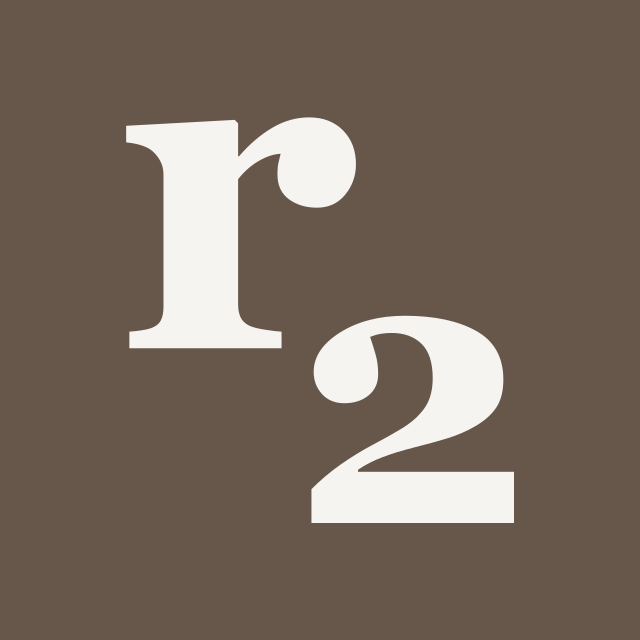
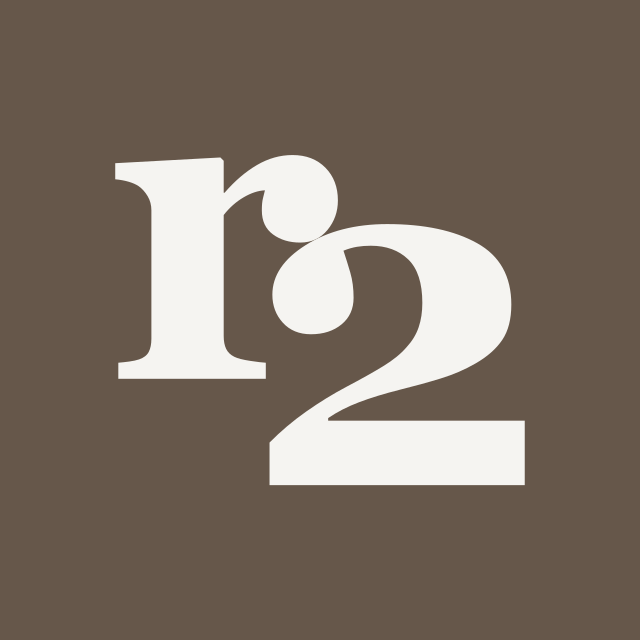
Marca com o encaixe do Instagram e índice igual nas duas telas
Dois pedidos do Vitor.

1) A marca o mais próxima possível da do Instagram. Medi a imagem do perfil
pixel a pixel, porque o logo-r2-wix.jpg está cortado (a tinta encosta nas
bordas, o "r" e o "2" estão decepados) e não serve de referência. O encaixe
real: o "2" entra a 31% da altura do "r", deslocado 69% para a direita, e é
1,3x maior — sobreposição vertical de cerca de 68%. O vetor tinha 14%, e era
por isso que as letras liam como duas soltas em vez de um monograma travado.
O conjunto também muda de proporção: 1,24 de largura por altura, contra 0,95.
Gerei três variantes e comparei lado a lado com a referência antes de aplicar.
marca/ regerada com o mesmo encaixe.

2) Mesma experiência no computador e no celular. O painel lateral que trocava
a foto no hover sai, e com ele o script inteiro e o estado de linha ativa.
Agora é um cartão por obra, com foto, número, nome, anos e ficha curta; muda
só o número de colunas — duas no computador, uma no celular. O recorte de
material de 80 px sai junto: era muleta de quando a linha não tinha foto.

Os dois primeiros cartões carregam em eager, que é onde fica a dobra. Hover
adianta a foto em 3% e sublinha o nome; o toque recua 1,5%. Tudo desligado em
prefers-reduced-motion.

Zero JavaScript no índice agora.

Changed region(s): [[0.1562, 0.1562, 0.8438, 0.8438]]

diff --git a/src/styles/site.css b/src/styles/site.css
@@ -129,58 +129,34 @@ figure { margin: 0; }
 .rod-dir a:hover { text-decoration: underline; text-underline-offset: .3em; }
 @media (max-width: 719px) { .rod-dir { text-align: left; } .rod-dir ul { align-items: flex-start; } }
 
-/* ---------- índice de projetos ---------- */
-.idx-lista { border-top: 1px solid var(--taupe); }
+/* ---------- índice de projetos ----------
+   Um cartão por obra, igual no computador e no celular: muda só o número de
+   colunas. Sem hover, sem painel que troca, sem JavaScript — o cartão inteiro
+   é o link, e um clique ou toque abre o projeto. */
+.idx-lista { display: grid; grid-template-columns: repeat(2, 1fr); gap: 56px var(--gap); }
+@media (max-width: 719px) { .idx-lista { grid-template-columns: 1fr; gap: 40px; } }
+
 .linha {
-  position: relative; display: grid; grid-template-columns: 44px 40px 1fr auto; column-gap: 16px; align-items: start;
-  padding: 20px 0 18px; border-bottom: 1px solid var(--fio-fraco);
-  margin-left: -16px; padding-left: 16px;
-  color: var(--tinta);
+  display: grid; grid-template-columns: 32px 1fr auto; column-gap: 12px;
+  border-top: 2px solid var(--cor); padding-top: 12px; color: var(--tinta);
 }
-.linha::before { content: ''; position: absolute; left: 0; top: -1px; bottom: -1px; width: 3px; background: var(--cor); opacity: 0; }
-.linha.ativa { background: color-mix(in srgb, var(--cor) 9%, transparent); }
-@media (hover: hover) { .linha:hover { background: color-mix(in srgb, var(--cor) 9%, transparent); } }
-.linha.ativa::before { opacity: 1; }
-@media (hover: hover) { .linha:hover::before { opacity: 1; } }
-.linha.ativa { border-bottom-color: var(--cor); }
-.linha .foto-toque { display: none; }
-.linha .num { padding-top: 7px; }
-.linha .mat { width: 40px; height: 40px; overflow: hidden; }
-.linha .mat img { width: 40px; height: 40px; object-fit: cover; display: block; }
-.linha .nome { padding-top: 5px; }
-.linha .anos { font-family: var(--sans); font-size: var(--t11); letter-spacing: var(--tr-rotulo); padding-top: 7px; white-space: nowrap; }
-.linha .meta { grid-column: 3 / -1; font-size: var(--t16); line-height: 1.4; margin-top: 4px; color: var(--tinta); }
-@media (max-width: 719px) {
-  .linha { grid-template-columns: 32px 1fr auto; column-gap: 12px; margin-left: 0; padding-left: 0; padding-block: 0 32px; border-bottom: 0; }
-  .linha .mat { display: none; }
-  .linha .num { padding-top: 2px; }
-  .linha .nome { padding-top: 0; grid-column: 2; }
-  .linha .anos { grid-column: 3; padding-top: 4px; }
-  .linha .meta { grid-column: 2 / -1; margin-top: 2px; }
-  /* o realce de linha ativa não faz sentido sem hover */
-  .linha.ativa { background: none; }
-  .linha.ativa::before { opacity: 0; }
-  .linha.ativa { border-bottom-color: transparent; }
-
-  .linha .foto-toque { display: block; grid-column: 1 / -1; margin-bottom: 14px; overflow: hidden; background: var(--sur); }
-  .linha .foto-toque img {
-    display: block; width: 100%; aspect-ratio: 3 / 2; object-fit: cover;
-    transition: transform .45s cubic-bezier(.2, .7, .3, 1), opacity .4s ease;
-  }
-  /* o fio da obra passa a marcar o topo de cada cartão */
-  .linha { border-top: 2px solid var(--cor); padding-top: 12px; }
-  .idx-lista { border-top: 0; }
-  .idx-lista li + li { margin-top: 8px; }
-
-  /* resposta ao toque: a imagem recua de leve enquanto o dedo está na tela */
-  .linha:active .foto-toque img { transform: scale(.985); opacity: .92; }
-
-  .idx-foto { display: none; }   /* o painel que troca é coisa de ponteiro */
+.linha .foto { grid-column: 1 / -1; margin-bottom: 14px; overflow: hidden; background: var(--sur); }
+.linha .foto img {
+  display: block; width: 100%; aspect-ratio: 3 / 2; object-fit: cover;
+  transition: transform .5s cubic-bezier(.2, .7, .3, 1);
 }
+.linha .num { padding-top: 2px; }
+.linha .nome { grid-column: 2; }
+.linha .anos { grid-column: 3; font-size: var(--t11); letter-spacing: var(--tr-rotulo); padding-top: 4px; white-space: nowrap; color: var(--taupe); }
+.linha .meta { grid-column: 2 / -1; font-size: var(--t16); line-height: 1.4; margin-top: 4px; }
 
-.idx-foto { display: grid; }
-.idx-foto > figure { grid-area: 1 / 1; visibility: hidden; opacity: 0; transition: opacity .3s cubic-bezier(.2, .7, .3, 1); }
-.idx-foto > figure.ativa { visibility: visible; opacity: 1; }
+/* movimento discreto e igual nos dois: a foto avança de leve na intenção */
+@media (hover: hover) {
+  .linha:hover .foto img { transform: scale(1.03); }
+  .linha:hover .nome { text-decoration: underline; text-decoration-thickness: 1px; text-underline-offset: .18em; text-decoration-color: var(--cor); }
+}
+.linha:active .foto img { transform: scale(.985); }
+.linha:focus-visible { outline: 2px solid var(--tinta); outline-offset: 4px; }
 
 /* ---------- página de projeto ---------- */
 .proj-cab { border-top: 2px solid var(--cor); padding-top: 12px; }
@@ -292,12 +268,9 @@ figure { margin: 0; }
    não tem itálico carregado e o navegador inclinaria o romano na marra */
 .subtitulo { margin-top: 8px; font-size: var(--t22); font-weight: 400; color: var(--cinza-texto); letter-spacing: -.01em; }
 
-/* toque: retorno imediato e suave, sem o atraso de 300 ms nem o flash azul */
+
+/* toque: sem o atraso de 300 ms nem o flash azul */
 @media (hover: none) {
   .linha, .prox a, .grade3 .item { -webkit-tap-highlight-color: transparent; touch-action: manipulation; }
-  .linha { transition: opacity .2s ease; }
-  .linha:active { opacity: .96; }
 }
-@media (prefers-reduced-motion: reduce) {
-  .linha .foto-toque img, .idx-foto > figure { transition: none; }
-}
+@media (prefers-reduced-motion: reduce) { .linha .foto img { transition: none; } }
